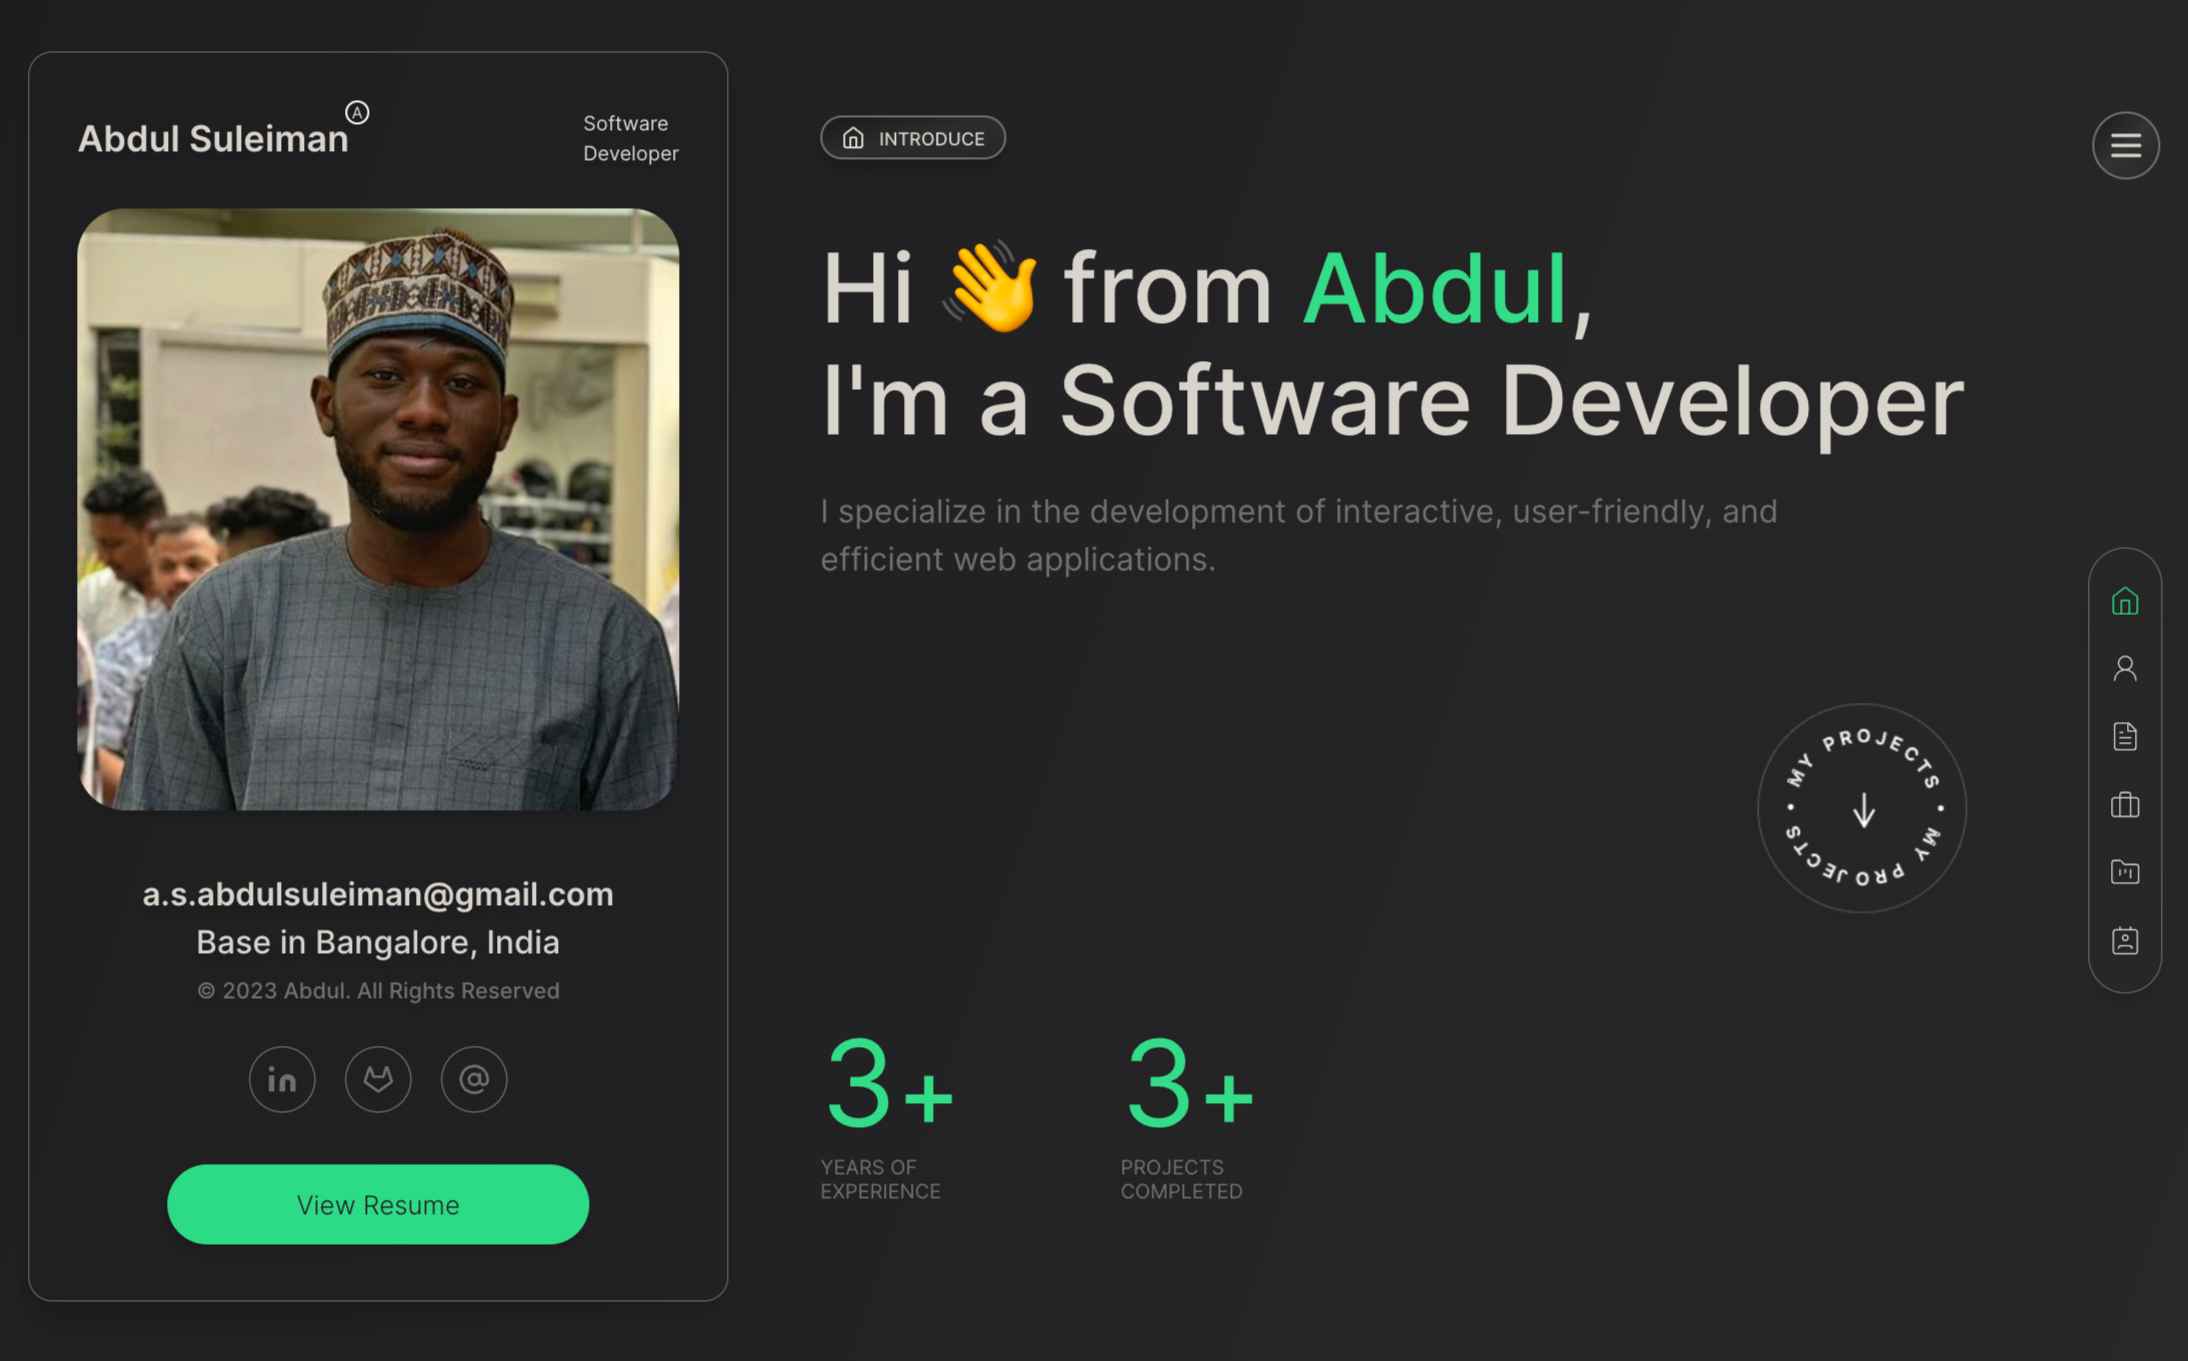
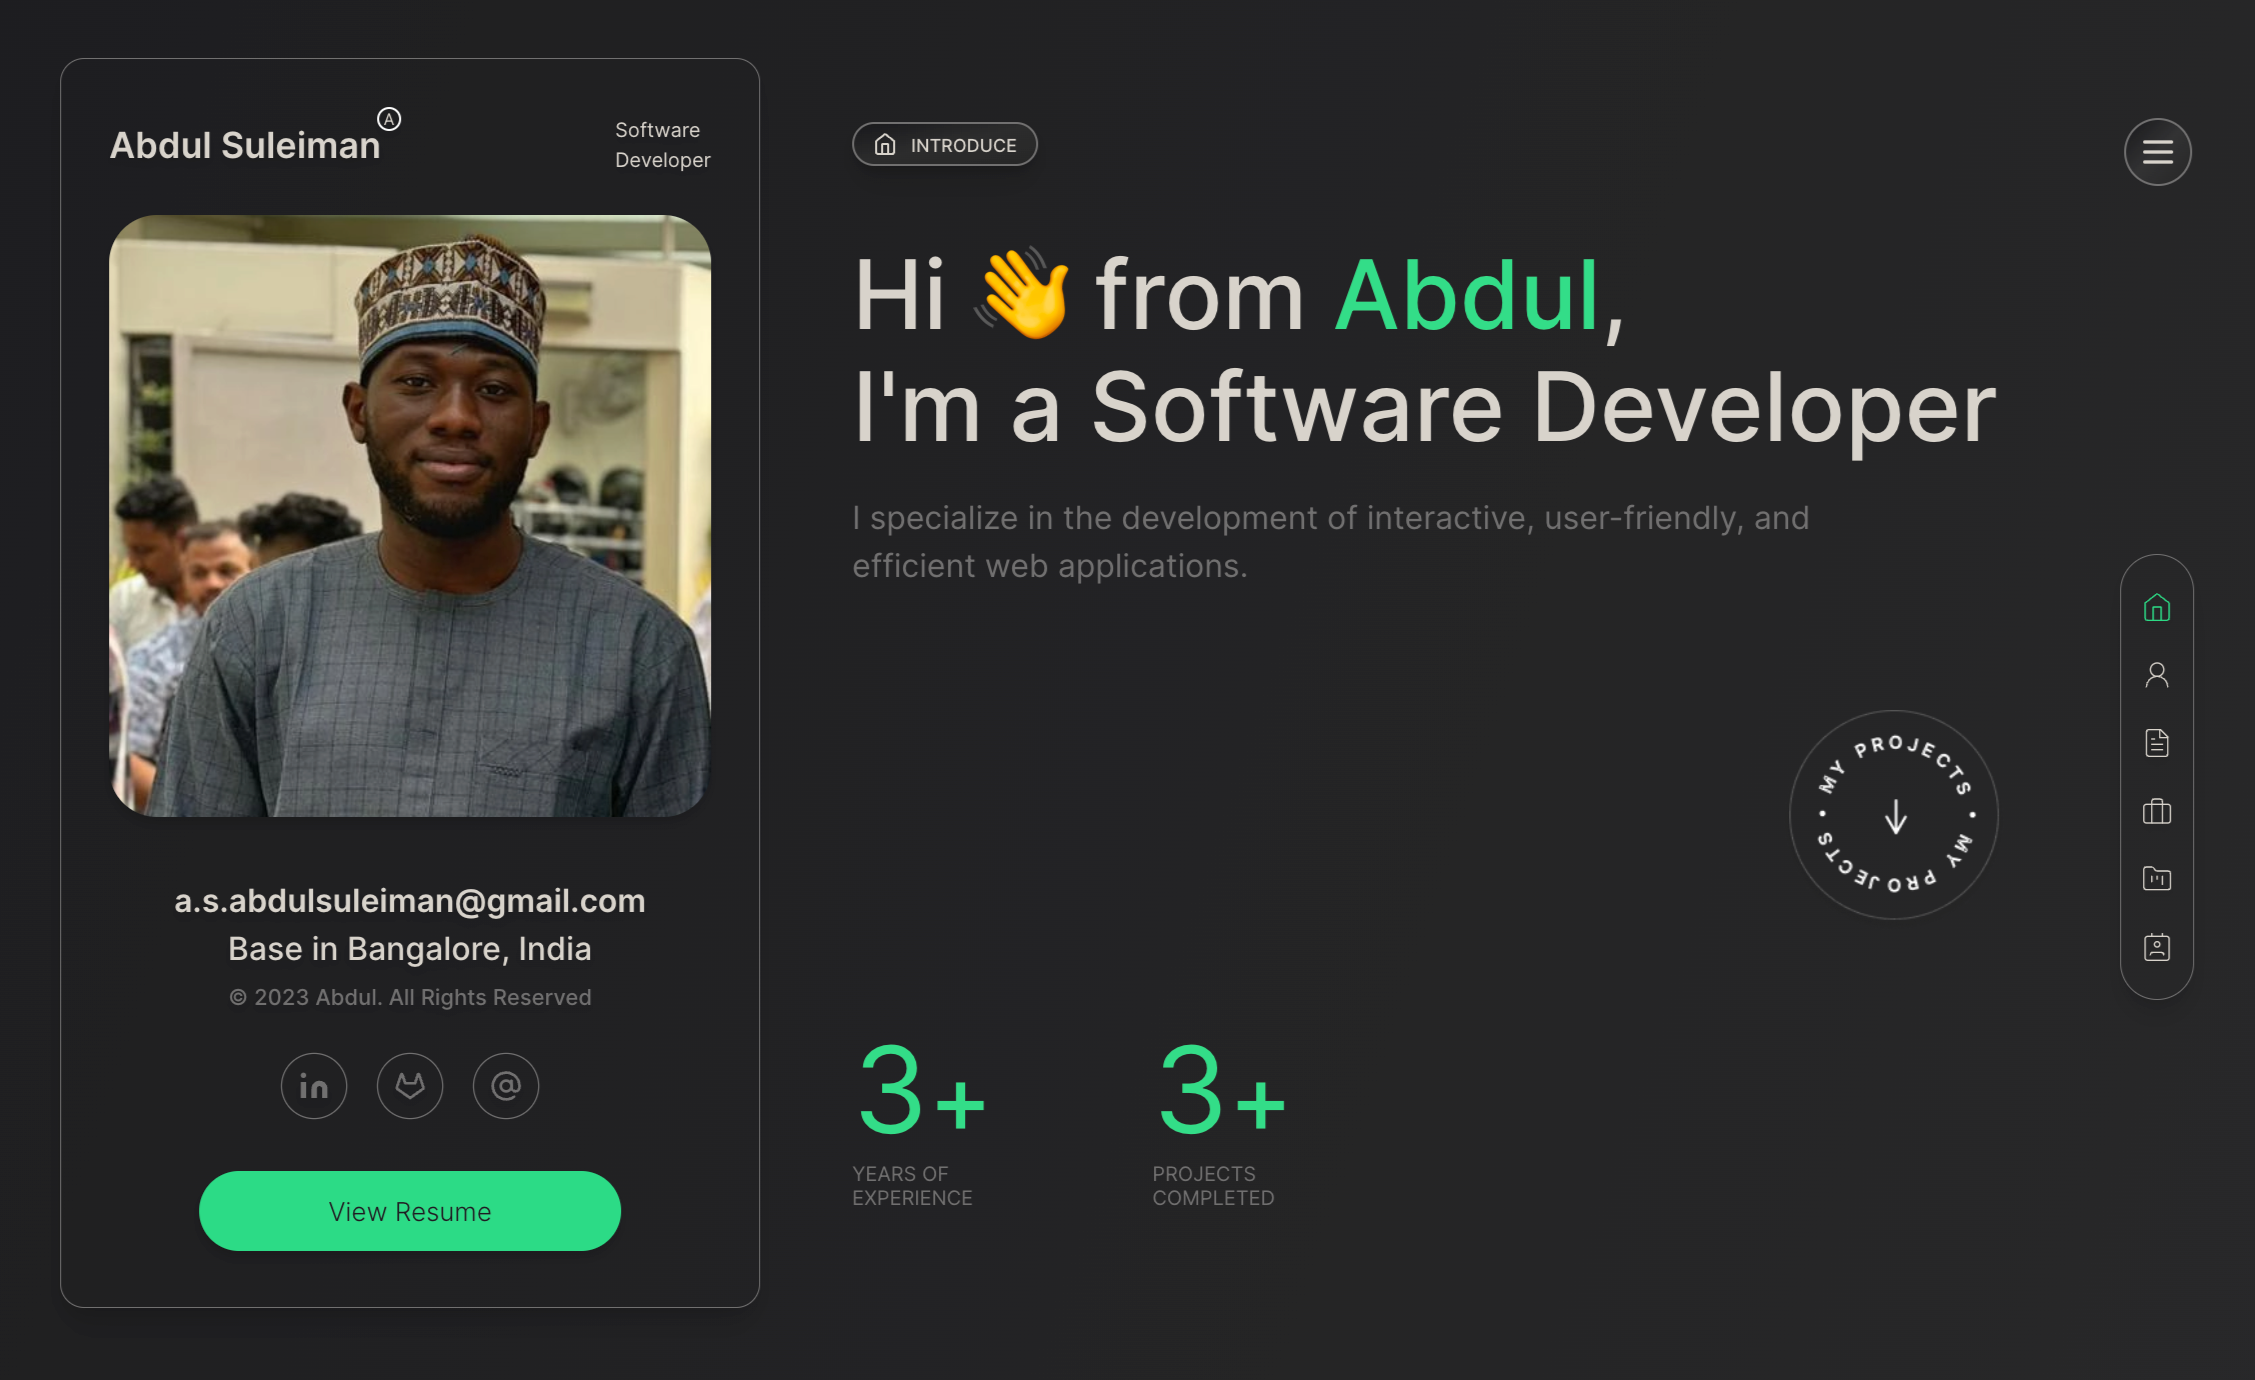
chore: update website content

diff --git a/src/app/shared-metadata.tsx b/src/app/shared-metadata.tsx
@@ -8,7 +8,7 @@ export const openGraphImage = {
   images: [
     {
       url: `${process.env.NEXT_PUBLIC_METADATABASE_URL}card-bg.png`,
-      width: 2188,
+      width: 2255,
       height: 1380,
       alt: "card-bg",
     },
